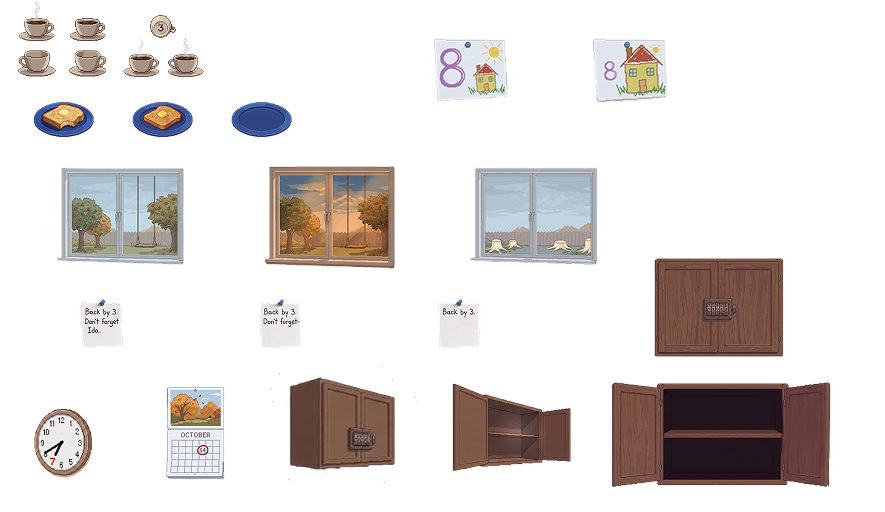
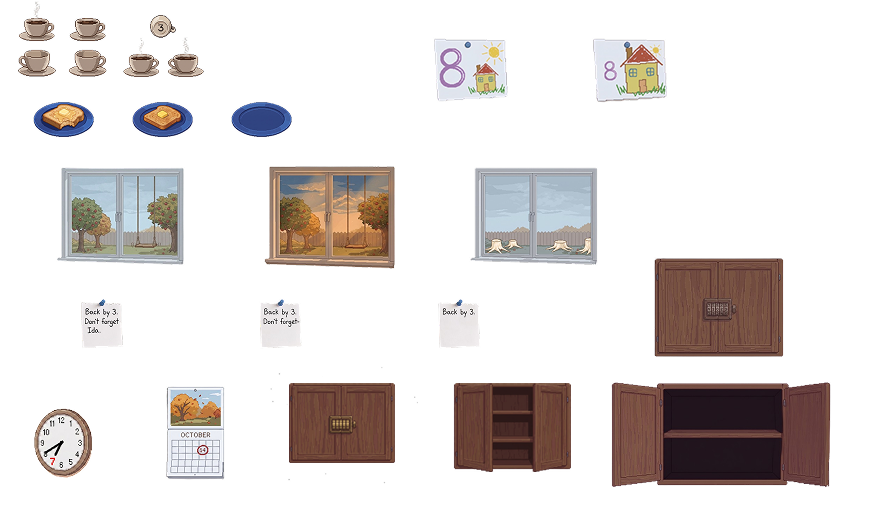
Correct cabinet display and tutorial/light behavior

Changed region(s): [[0.4881, 0.75, 0.6712, 0.9375], [0.3051, 0.7188, 0.4576, 0.9375]]

diff --git a/scripts/ui/GameUI.cs b/scripts/ui/GameUI.cs
@@ -148,6 +148,8 @@ public partial class GameUI : CanvasLayer
     private Control _hudTourLayer;
     private Control _hudTourShade;
     private Line2D _hudTourLeader;
+    private Line2D _hudTourArrowUpper;
+    private Line2D _hudTourArrowLower;
     private ColorRect[] _hudTourFrame = Array.Empty<ColorRect>();
     private PanelContainer _hudTourCallout;
     private Label _hudTourTitle;
@@ -575,6 +577,7 @@ public partial class GameUI : CanvasLayer
     private Control _settingsPanel;
     private Control _journalPanel;
     private Control _menuSettingsButton;
+    private Control _menuHowToButton;
     private Control _devPanel;
     private Label _devStatusLabel;
     private Button _devPauseButton;
@@ -949,6 +952,7 @@ public partial class GameUI : CanvasLayer
         }
 
         SetMenuCornerScale(_menuSettingsButton, new Vector2(1f, 1f));
+        SetMenuCornerScale(_menuHowToButton, new Vector2(1f, 1f));
     }
 
     private static void SetMenuCornerScale(Control control, Vector2 pivot)
@@ -1016,6 +1020,22 @@ public partial class GameUI : CanvasLayer
             ZIndex = 2,
         };
         _hudTourLayer.AddChild(_hudTourLeader);
+        _hudTourArrowUpper = new Line2D
+        {
+            Width = 2f,
+            DefaultColor = new Color(1f, 0.79f, 0.42f, 0.98f),
+            Antialiased = true,
+            ZIndex = 2,
+        };
+        _hudTourLayer.AddChild(_hudTourArrowUpper);
+        _hudTourArrowLower = new Line2D
+        {
+            Width = 2f,
+            DefaultColor = new Color(1f, 0.79f, 0.42f, 0.98f),
+            Antialiased = true,
+            ZIndex = 2,
+        };
+        _hudTourLayer.AddChild(_hudTourArrowLower);
 
         _hudTourFrame = new ColorRect[4];
         for (int i = 0; i < _hudTourFrame.Length; i++)
@@ -1244,7 +1264,12 @@ public partial class GameUI : CanvasLayer
         Vector2 targetPoint = targetRect.GetCenter();
         Vector2 calloutPoint = _hudTourCallout.Position + _hudTourCallout.Size *
             (targetNearTop ? new Vector2(0.08f, 0f) : new Vector2(0.92f, 1f));
-        _hudTourLeader.Points = new[] { targetPoint, calloutPoint };
+        _hudTourLeader.Points = new[] { calloutPoint, targetPoint };
+        Vector2 toTarget = (targetPoint - calloutPoint).Normalized();
+        Vector2 arrowBase = targetPoint - toTarget * 12f;
+        Vector2 arrowSide = new Vector2(-toTarget.Y, toTarget.X) * 6f;
+        _hudTourArrowUpper.Points = new[] { targetPoint, arrowBase + arrowSide };
+        _hudTourArrowLower.Points = new[] { targetPoint, arrowBase - arrowSide };
     }
 
     private static Rect2 GetControlCanvasRect(Control control)
@@ -2270,6 +2295,7 @@ public partial class GameUI : CanvasLayer
         _hud.Visible = next == UiContext.Game;
         _corruptionRect.Visible = next == UiContext.Game;
         _menuSettingsButton.Visible = next == UiContext.Menu;
+        _menuHowToButton.Visible = next == UiContext.Menu;
         if (next == UiContext.Game && _tutorialPanel.Visible)
             GetTree().Paused = true;
 
@@ -4562,8 +4588,9 @@ public partial class GameUI : CanvasLayer
              Input.IsPhysicalKeyPressed(Key.Up) || Input.IsPhysicalKeyPressed(Key.Left) ||
              Input.IsPhysicalKeyPressed(Key.Down) || Input.IsPhysicalKeyPressed(Key.Right));
         bool reducedMotion = Settings.ReduceMotionOrDefault();
-        // The vent crawl is deliberately slower than her ordinary walk.
-        float stepSeconds = sceneFile == "vent_crawl.tscn" ? 1.25f : 0.92f;
+        // Keep the first-person hand's footfall gentle; the vent crawl is
+        // slower still than Mara's ordinary house walk.
+        float stepSeconds = sceneFile == "vent_crawl.tscn" ? 1.6f : 1.35f;
         if (walking && !reducedMotion)
             _torchHandWalkTime += delta * Mathf.Tau / stepSeconds;
 
@@ -4593,13 +4620,24 @@ public partial class GameUI : CanvasLayer
         _gameplayTorchHand.OffsetTop = -height - bottomInset + _torchHandSway.Y;
         _gameplayTorchHand.OffsetBottom = -bottomInset + _torchHandSway.Y;
 
-        float beamRadius = gs?.HasFlag("basement_battery_taken") == true ? 208f : 158f;
-        if (gs != null && gs.DevToolsEnabled)
-            beamRadius *= gs.DevFlashlightScale;
+        Node activeRoom = SceneManager.Instance?.CurrentScene;
+        Vector2 beamCenter = _blackoutOverlay?.FlashlightBeamPosition ?? mouse;
+        float beamRadius = _blackoutOverlay?.FlashlightBeamRadius ??
+            (gs?.HasFlag("basement_battery_taken") == true ? 198f : 152f);
+        if (activeRoom is Basement basement)
+        {
+            beamCenter = basement.FlashlightBeamPosition;
+            beamRadius = basement.FlashlightBeamRadius;
+        }
+        else if (activeRoom is VentCrawl vent)
+        {
+            beamCenter = vent.FlashlightBeamPosition;
+            beamRadius = vent.FlashlightBeamRadius;
+        }
         Vector2 lightPoint = new(
             viewSize.X - width * 0.34f + _torchHandSway.X,
             viewSize.Y - height * 0.25f + _torchHandSway.Y);
-        float distance = mouse.DistanceTo(lightPoint);
+        float distance = beamCenter.DistanceTo(lightPoint);
         float beamFalloff = 1f - Mathf.Clamp(
             (distance - beamRadius * 0.35f) / Mathf.Max(beamRadius * 0.65f, 1f), 0f, 1f);
         float lightLevel = Mathf.Lerp(0.16f, 1f, beamFalloff);
@@ -5327,6 +5365,19 @@ public partial class GameUI : CanvasLayer
         _menuSettingsButton = b;
         AddChild(b);
 
+        var howTo = MakeButton("How to Play", 22);
+        howTo.AnchorLeft = 1f;
+        howTo.AnchorTop = 1f;
+        howTo.AnchorRight = 1f;
+        howTo.AnchorBottom = 1f;
+        howTo.OffsetLeft = -170f;
+        howTo.OffsetTop = -108f;
+        howTo.OffsetRight = -26f;
+        howTo.OffsetBottom = -68f;
+        howTo.Visible = false;
+        howTo.Pressed += () => OpenTutorial();
+        _menuHowToButton = howTo;
+        AddChild(howTo);
     }
 
     // ================================================================ tutorial
@@ -5436,18 +5487,17 @@ public partial class GameUI : CanvasLayer
 
     public void OpenTutorial(bool fromPause = false, bool fromPrologueAuto = false)
     {
+        _tutorialFromPause = fromPause;
+        _tutorialFromPrologueAuto = fromPrologueAuto;
         if (fromPause)
-        {
-            StartHudTourFromPause();
-            return;
-        }
+            _pausePanel.Visible = false;
+        else if (_context == UiContext.Game)
+            GetTree().Paused = true;
 
-        if (_context == UiContext.Game)
-        {
-            if (GetTree().Paused)
-                GetTree().Paused = false;
-            TryStartHouseHudTour();
-        }
+        _tutorialPanel.Visible = true;
+        AudioManager.Play(Sfx.PageTurn, -7f);
+        ShowTutorialPage(0);
+        _tutorialNextButton.GrabFocus();
     }
 
     private void CloseTutorial()
@@ -8590,8 +8640,8 @@ public partial class GameUI : CanvasLayer
         }
     }
 
-    /// <summary>The prologue asks before it teaches. The cards remain
-    /// replayable from the pause menu, but are never offered on kitchen entry.</summary>
+    /// <summary>The prologue starts the pointed HUD callouts after Mara
+    /// wakes. They can be replayed any time from the pause menu.</summary>
     public void TryStartPrologueTutorial()
     {
         MaybeAutoShowTutorial(SceneManager.CurrentScenePath);
@@ -8600,42 +8650,20 @@ public partial class GameUI : CanvasLayer
     private void MaybeAutoShowTutorial(string scenePath)
     {
         if (scenePath == null || !scenePath.EndsWith("bedroom_prologue.tscn") ||
-            GameState.Instance?.HasFlag("prologue_awake") != true)
-            return;
-        if (Settings.Instance == null)
-            return;
-        // Keep this gate independent of the legacy general tutorial flag:
-        // earlier builds could mark that flag in Room 1, before this prologue flow existed.
-        if (Settings.Instance.PrologueTutorialSeen)
-        {
-            TryStartHouseHudTour();
-            return;
-        }
-        if (_tutorialAutoShown)
+            GameState.Instance?.HasFlag("prologue_awake") != true || Settings.Instance == null)
             return;
 
+        if (_tutorialAutoShown)
+            return;
         _tutorialAutoShown = true;
-        GetTree().Paused = true;
-        ShowConfirm(
-            "Would you like a quick HUD tour? Four highlighted callouts explain Mara's narrative line, the memory and clarity meters, shortcut keys, and where collected things live.",
-            () =>
-            {
-                GetTree().Paused = false;
-                TryStartHouseHudTour(force: true);
-            },
-            "Show me",
-            "Not now",
-            () =>
-            {
-                if (Settings.Instance != null)
-                {
-                    Settings.Instance.TutorialSeen = true;
-                    Settings.Instance.PrologueTutorialSeen = true;
-                    Settings.Instance.HouseHudTourSeen = true;
-                    Settings.Instance.Save();
-                }
-                GetTree().Paused = false;
-            });
+
+        // The new tutorial is the actual on-screen HUD tour, not another
+        // confirmation or a menu of pages. Keep its first-run gate separate
+        // from the legacy How to Play booklet in the main menu.
+        if (Settings.Instance.PrologueTutorialSeen)
+            TryStartHouseHudTour();
+        else
+            TryStartHouseHudTour(force: true);
     }
 }
 

diff --git a/scripts/ui/BlackoutOverlay.cs b/scripts/ui/BlackoutOverlay.cs
@@ -33,6 +33,17 @@ public partial class BlackoutOverlay : Control
 
     private Vector2 _beamPosition = new(576, 324);
     private bool _beamReady;
+
+    public Vector2 FlashlightBeamPosition => _beamPosition;
+    public float FlashlightBeamRadius
+    {
+        get
+        {
+            var gs = GameState.Instance;
+            float radius = gs?.HasFlag("basement_battery_taken") == true ? 198f : 152f;
+            return gs?.DevToolsEnabled == true ? radius * gs.DevFlashlightScale : radius;
+        }
+    }
     private float _darkAlpha;
     private float _flickerLevel = 0.8f;
     private float _flickerTimer;
@@ -151,9 +162,6 @@ public partial class BlackoutOverlay : Control
             new Color(0.002f, 0.002f, 0.004f, 0.62f * _darkAlpha));
         DrawDarkOutside(_beamPosition, radius,
             new Color(0.001f, 0.001f, 0.003f, 0.72f * _darkAlpha));
-        DrawArc(_beamPosition, radius * 0.97f, 0f, Mathf.Tau, 56,
-            new Color(1f, 0.83f, 0.45f, 0.08f * _darkAlpha), 13f, true);
-        DrawCircle(_beamPosition, 4f, new Color(1f, 0.9f, 0.62f, 0.24f * _darkAlpha));
     }
 
     private void DrawDarkOutside(Vector2 center, float radius, Color dark)

diff --git a/scripts/world/room5/Basement.cs b/scripts/world/room5/Basement.cs
@@ -31,6 +31,17 @@ public partial class Basement : MemoryRoomBase
     private Vector2 _beamPosition = new(576, 324);
     private bool _beamReady;
 
+    public Vector2 FlashlightBeamPosition => _beamPosition;
+    public float FlashlightBeamRadius
+    {
+        get
+        {
+            var gs = GameState.Instance;
+            float radius = gs?.HasFlag("basement_battery_taken") == true ? 208f : 158f;
+            return gs?.DevToolsEnabled == true ? radius * gs.DevFlashlightScale : radius;
+        }
+    }
+
     protected override string RoomName => "Basement";
     protected override string BackgroundPath => "res://assets/images/bgs/Basement_BG.png";
 

diff --git a/scripts/world/room5/VentCrawl.cs b/scripts/world/room5/VentCrawl.cs
@@ -55,6 +55,17 @@ public partial class VentCrawl : Node2D
     private bool _beamReady;
     private bool _crawlMoving;
 
+    public Vector2 FlashlightBeamPosition => _beamPosition;
+    public float FlashlightBeamRadius
+    {
+        get
+        {
+            var gs = GameState.Instance;
+            float radius = gs?.HasFlag("basement_battery_taken") == true ? 205f : 172f;
+            return gs?.DevToolsEnabled == true ? radius * gs.DevFlashlightScale : radius;
+        }
+    }
+
     private readonly RandomNumberGenerator _rng = new();
     private int _kicksLanded;
     private float _ringRadius = 168f;
